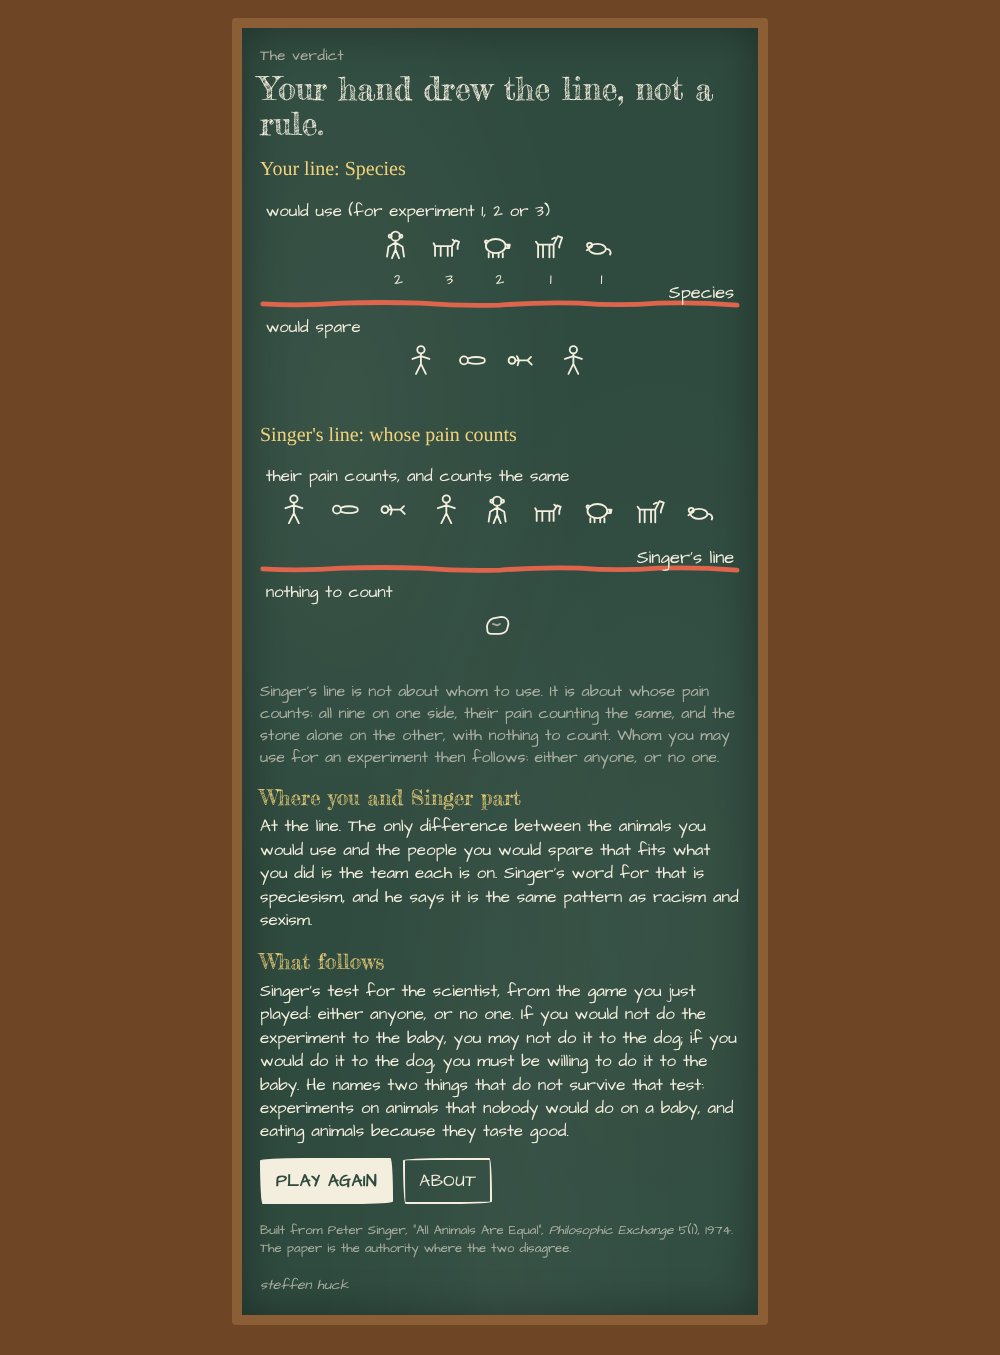
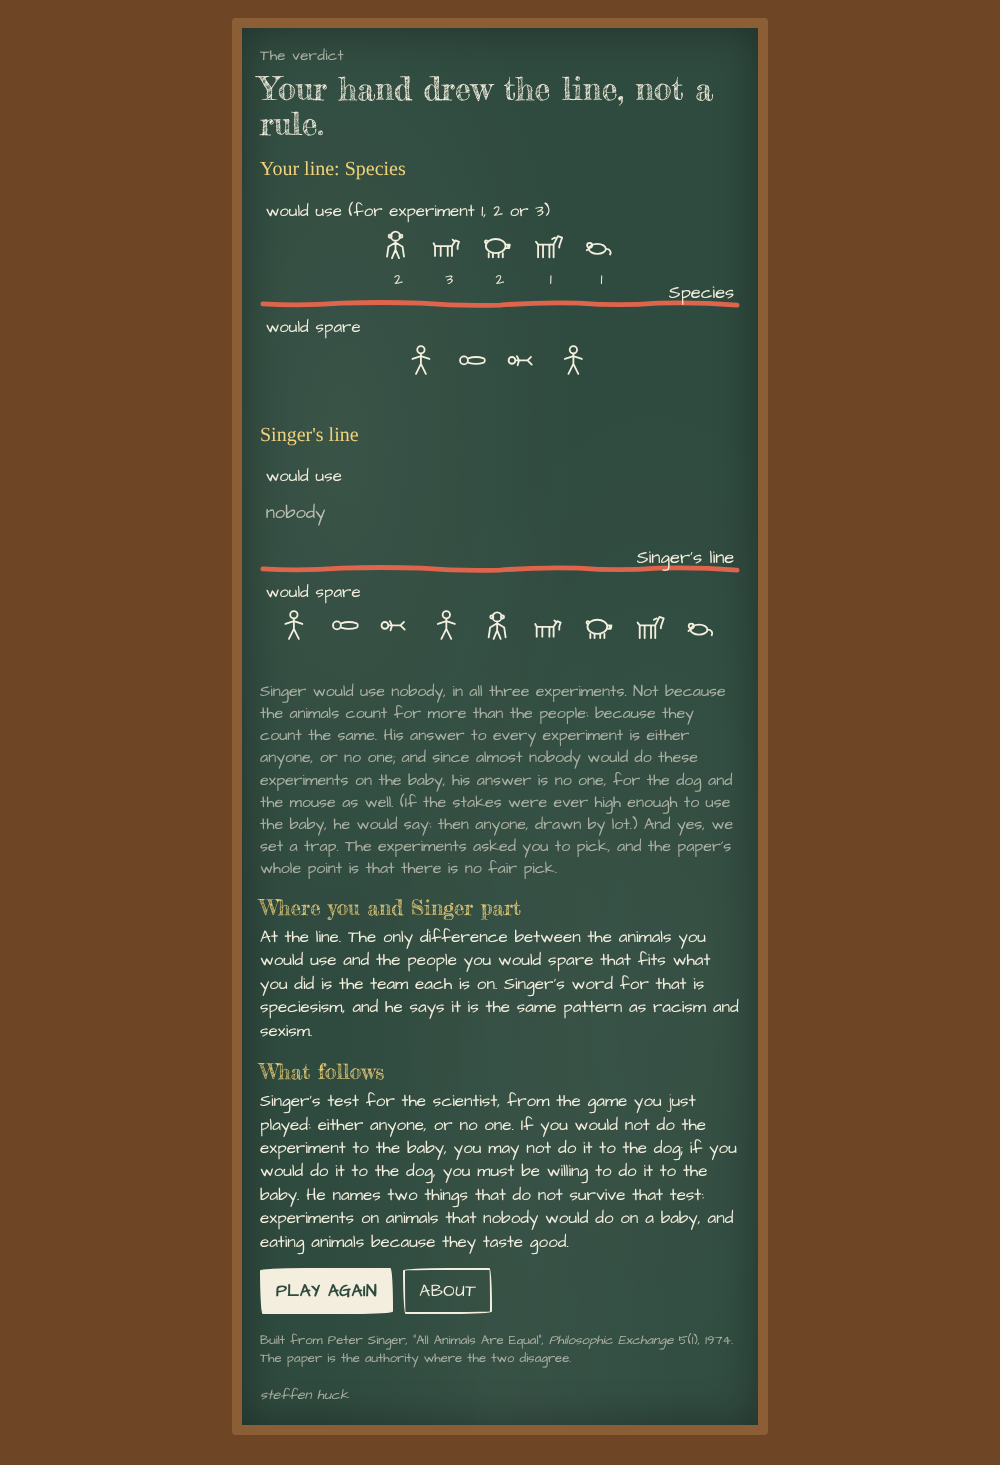
Draw a Line with Singer: Singer's drawing shows what he would do
Same labels as the player's drawing; nobody above the line, all nine below. The caption: not because the animals count for more but because they count the same; either anyone or no one, and since almost nobody would use the baby, no one; if the stakes were ever high enough for the baby, then anyone by lot; and the trap acknowledged. Memo section 33.

Claude-Session: https://claude.ai/code/session_018niUhxTtpvUeZgsoHw7ZtQ

Changed region(s): [[0.248, 0.279, 0.744, 0.9919], [0.248, 0.031, 0.744, 0.279]]

diff --git a/singer/draw-a-line-with-singer.html b/singer/draw-a-line-with-singer.html
@@ -169,7 +169,7 @@ a{color:var(--chalk)}
   <div class="fate" id="fate"></div>
   <div class="vp-head" id="vp-yours"></div>
   <div class="verdictpic"><svg id="pic-yours" viewBox="0 0 340 150"></svg></div>
-  <div class="vp-head">Singer's line: whose pain counts</div>
+  <div class="vp-head">Singer's line</div>
   <div class="verdictpic"><svg id="pic-singer" viewBox="0 0 340 150"></svg></div>
   <p class="find" id="v-singer"></p>
   <div class="sec"><h2>Where you and Singer part</h2><div id="v-part"></div></div>
@@ -446,7 +446,7 @@ function verdict(state) {
   else if (s.id === 'line') { fate = 'You drew a straight line in the wrong place.'; part = 'At the rule. A rule you can check gives your choices, so they are not made by hand; but Singer says it is the wrong rule, as arbitrary as skin colour: the ones you would use are hurt exactly as much as the ones you would spare. ' + team; }
   else if (s.id === 'species') { fate = 'Your hand drew the line, not a rule.'; part = 'At the line. The only difference between the animals you would use and the people you would spare that fits what you did is the team each is on. Singer\'s word for that is speciesism, and he says it is the same pattern as racism and sexism.'; }
   else { fate = 'You drew your own order.'; part = 'At the line. No rule with a ranking gives your choices, and the team\'s rule does not either. Singer would ask what the ones you would use have in common; if you can name it, the board can check it. ' + team; }
-  var singerLine = 'Singer\'s line is not about whom to use. It is about whose pain counts: all nine on one side, their pain counting the same, and the stone alone on the other, with nothing to count. Whom you may use for an experiment then follows: either anyone, or no one.';
+  var singerLine = 'Singer would use nobody, in all three experiments. Not because the animals count for more than the people: because they count the same. His answer to every experiment is either anyone, or no one; and since almost nobody would do these experiments on the baby, his answer is no one, for the dog and the mouse as well. (If the stakes were ever high enough to use the baby, he would say: then anyone, drawn by lot.) And yes, we set a trap. The experiments asked you to pick, and the paper\'s whole point is that there is no fair pick.';
   return { fate: fate, name: w.name, who: w.who, part: part, singerLine: singerLine, two: two, shape: s, line: line, did: didWords(ticks) };
 }
 
@@ -656,7 +656,7 @@ if (typeof module !== 'undefined') module.exports = { CONFIG: CONFIG, expName: e
     $('fate').textContent = v.fate;
     $('vp-yours').textContent = 'Your line: ' + v.name;
     drawLinePic('pic-yours', v.line.used, v.line.spared, v.name, v.line.stakes);
-    drawLinePic('pic-singer', SUB.slice(), ['stone'], 'Singer\'s line', null, ['their pain counts, and counts the same', 'nothing to count']);
+    drawLinePic('pic-singer', [], SUB.slice(), 'Singer\'s line', null);
     $('v-singer').textContent = v.singerLine;
     $('v-part').innerHTML = '<p>' + esc(v.part) + '</p>';
     $('v-stood').innerHTML = '<p>' + esc(v.two) + '</p>' + (v.shape.id === 'refuse' ? '<p><a href="../foot/foots-bad-man.html" style="color:#F0D27A">Play Foot\'s Bad Man →</a></p>' : '');

diff --git a/singer/mechanism.js b/singer/mechanism.js
@@ -228,7 +228,7 @@ function verdict(state) {
   else if (s.id === 'line') { fate = 'You drew a straight line in the wrong place.'; part = 'At the rule. A rule you can check gives your choices, so they are not made by hand; but Singer says it is the wrong rule, as arbitrary as skin colour: the ones you would use are hurt exactly as much as the ones you would spare. ' + team; }
   else if (s.id === 'species') { fate = 'Your hand drew the line, not a rule.'; part = 'At the line. The only difference between the animals you would use and the people you would spare that fits what you did is the team each is on. Singer\'s word for that is speciesism, and he says it is the same pattern as racism and sexism.'; }
   else { fate = 'You drew your own order.'; part = 'At the line. No rule with a ranking gives your choices, and the team\'s rule does not either. Singer would ask what the ones you would use have in common; if you can name it, the board can check it. ' + team; }
-  var singerLine = 'Singer\'s line is not about whom to use. It is about whose pain counts: all nine on one side, their pain counting the same, and the stone alone on the other, with nothing to count. Whom you may use for an experiment then follows: either anyone, or no one.';
+  var singerLine = 'Singer would use nobody, in all three experiments. Not because the animals count for more than the people: because they count the same. His answer to every experiment is either anyone, or no one; and since almost nobody would do these experiments on the baby, his answer is no one, for the dog and the mouse as well. (If the stakes were ever high enough to use the baby, he would say: then anyone, drawn by lot.) And yes, we set a trap. The experiments asked you to pick, and the paper\'s whole point is that there is no fair pick.';
   return { fate: fate, name: w.name, who: w.who, part: part, singerLine: singerLine, two: two, shape: s, line: line, did: didWords(ticks) };
 }
 

diff --git a/singer/template.html b/singer/template.html
@@ -169,7 +169,7 @@ a{color:var(--chalk)}
   <div class="fate" id="fate"></div>
   <div class="vp-head" id="vp-yours"></div>
   <div class="verdictpic"><svg id="pic-yours" viewBox="0 0 340 150"></svg></div>
-  <div class="vp-head">Singer's line: whose pain counts</div>
+  <div class="vp-head">Singer's line</div>
   <div class="verdictpic"><svg id="pic-singer" viewBox="0 0 340 150"></svg></div>
   <p class="find" id="v-singer"></p>
   <div class="sec"><h2>Where you and Singer part</h2><div id="v-part"></div></div>
@@ -407,7 +407,7 @@ a{color:var(--chalk)}
     $('fate').textContent = v.fate;
     $('vp-yours').textContent = 'Your line: ' + v.name;
     drawLinePic('pic-yours', v.line.used, v.line.spared, v.name, v.line.stakes);
-    drawLinePic('pic-singer', SUB.slice(), ['stone'], 'Singer\'s line', null, ['their pain counts, and counts the same', 'nothing to count']);
+    drawLinePic('pic-singer', [], SUB.slice(), 'Singer\'s line', null);
     $('v-singer').textContent = v.singerLine;
     $('v-part').innerHTML = '<p>' + esc(v.part) + '</p>';
     $('v-stood').innerHTML = '<p>' + esc(v.two) + '</p>' + (v.shape.id === 'refuse' ? '<p><a href="../foot/foots-bad-man.html" style="color:#F0D27A">Play Foot\'s Bad Man →</a></p>' : '');

diff --git a/singer/memo.md b/singer/memo.md
@@ -317,3 +317,7 @@ Five points from the author's play of revision 11, and what was done.
 ## 32. Revision 12a, 28 November 2026: the trick, named
 
 The author: the Suffer stage is a trick question, and that should be said. The experiments force a pick, and with equal marks every pick is a complaint; the only way to keep Suffer happy was all three or nobody. That is the paper's own test for the scientist (p. 109): if he would not use the orphaned infant, his readiness to use animals is discrimination; if he would use the animal, he must be willing to use the infant. Now said in three places: the Suffer reveal's headline ("Suffer objects. It was a trick question."), the end of Suffer's words ("Did you see the trick? ... Either anyone, or no one."), and "What follows" in the verdict. A player whose line is Singer's is told he saw through it.
+
+## 33. Revision 12b, 28 November 2026: Singer's drawing in the verdict
+
+First attempt drew Singer's line with the nine above and the stone below under "would use / would spare" labels, which read as Singer using everyone. Second attempt relabelled it "whose pain counts"; the author wants the same labels for both drawings and the drawing to show what Singer would do. Now: Singer's drawing has nobody above the line and all nine below, same labels as the player's, and the caption says why: not because the animals count for more but because they count the same; either anyone or no one, and since almost nobody would use the baby, no one; if the stakes were ever high enough for the baby, then anyone, by lot (p. 109); and the trap is acknowledged in so many words. The stone is not drawn: it was on no menu.
